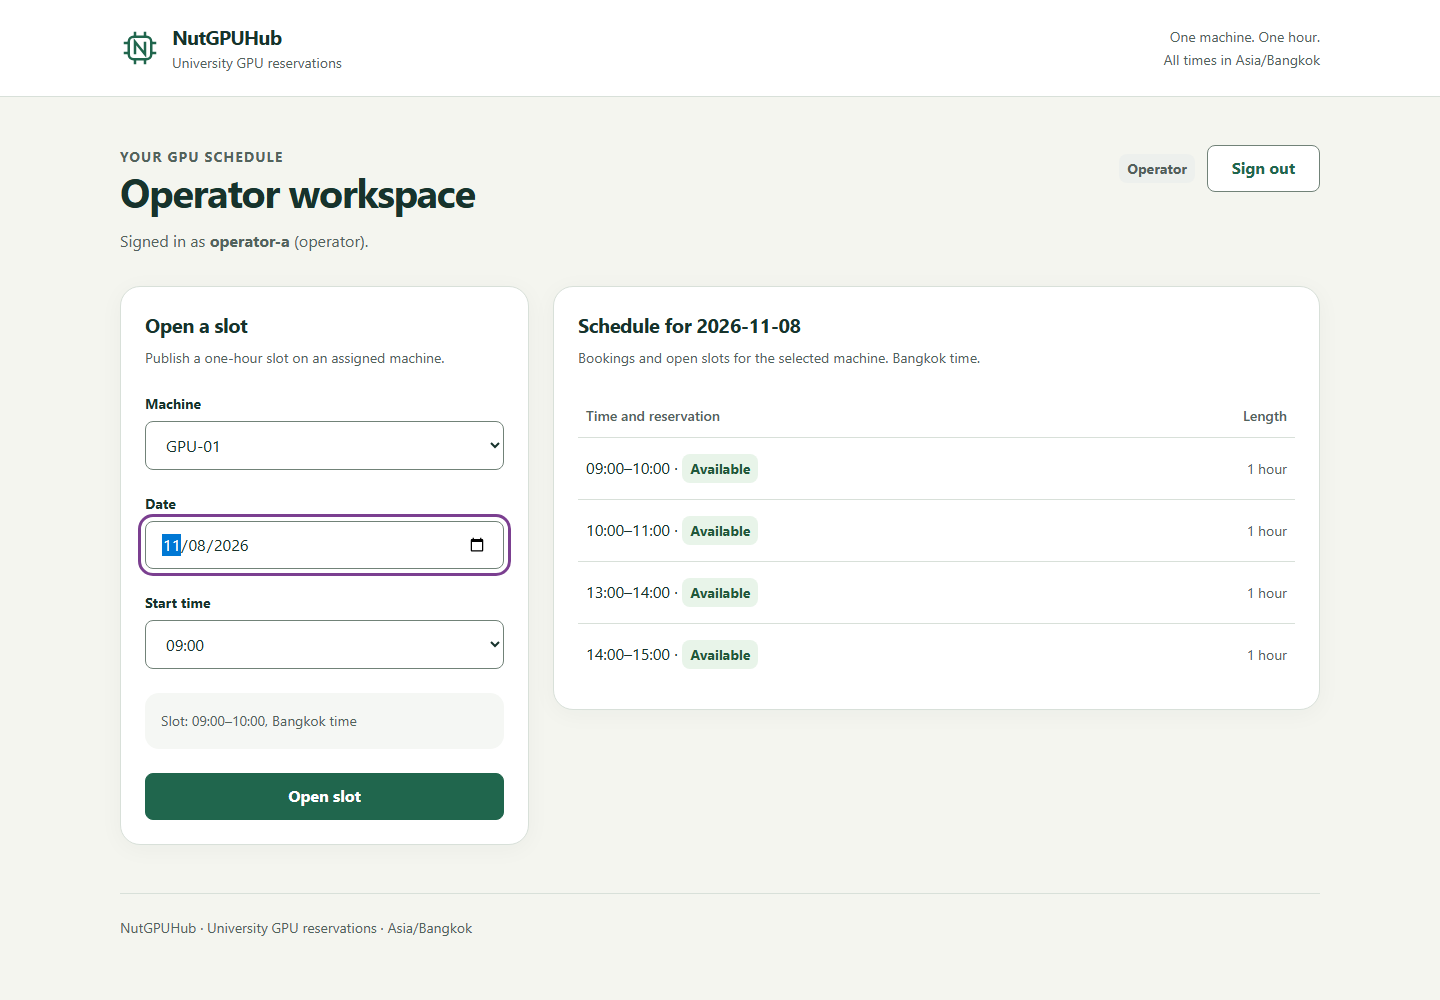
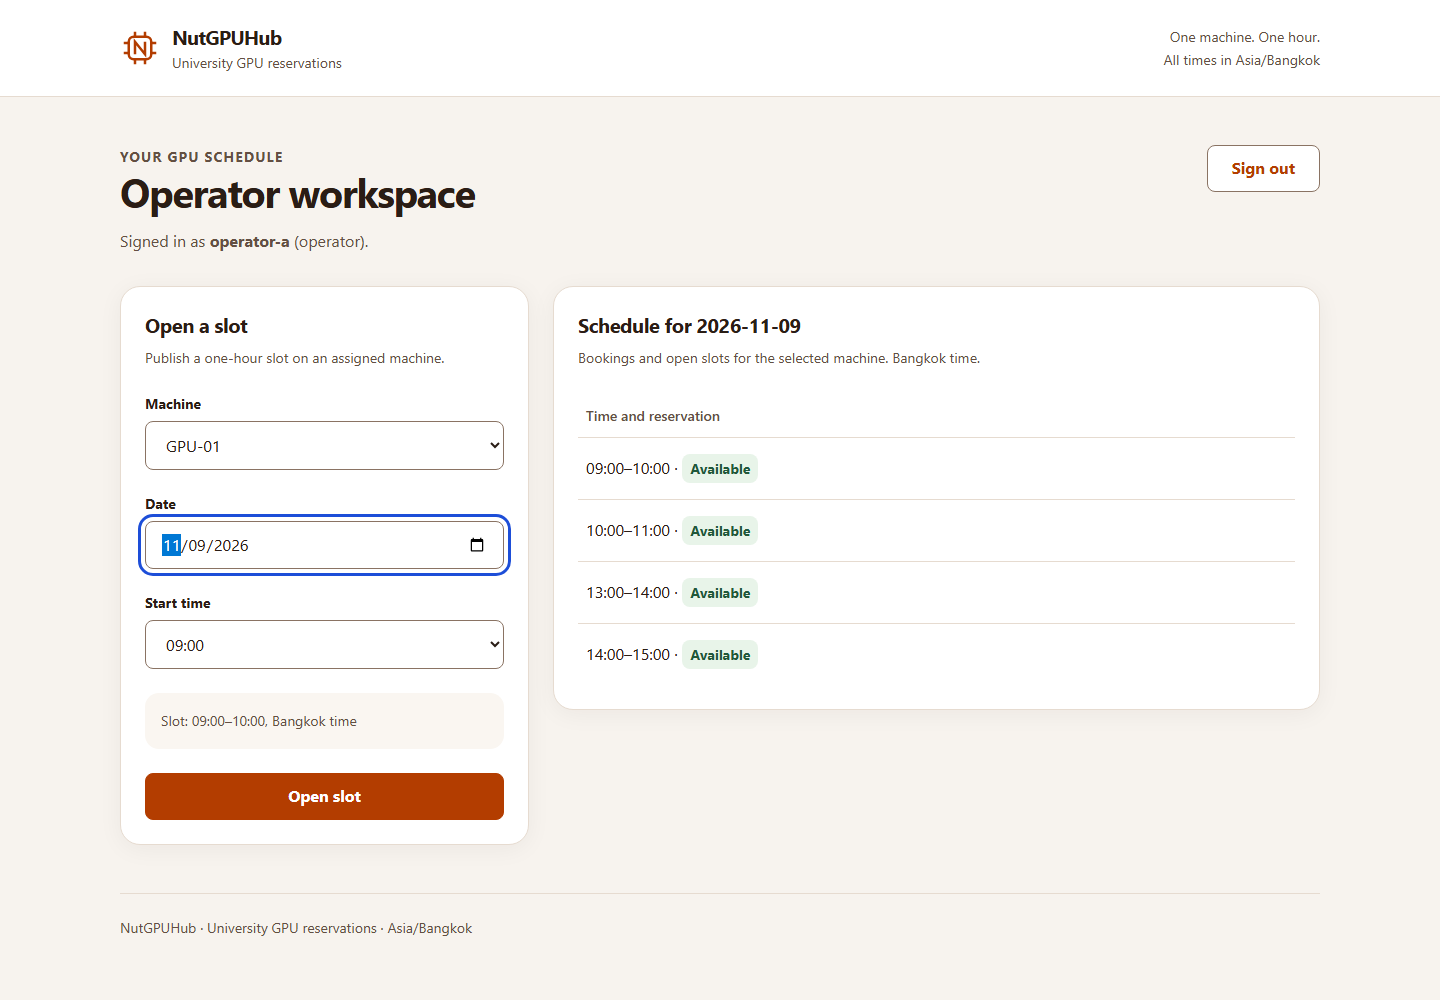
Address UI review feedback and refresh orange theme evidence

diff --git a/client/styles.css b/client/styles.css
@@ -74,7 +74,8 @@ strong { font-weight: 650; }
 .button:hover:not(:disabled) { background: var(--accent-hover); border-color: var(--accent-hover); }
 .button--secondary { background: var(--surface); color: var(--accent); border-color: var(--control-line); }
 .button--secondary:hover:not(:disabled) { background: var(--surface-soft); color: var(--accent-hover); border-color: var(--accent-hover); }
-.button:disabled { cursor: wait; background: var(--past-bg); color: var(--past-ink); border-color: var(--control-line); }
+.button:disabled { cursor: not-allowed; background: var(--past-bg); color: var(--past-ink); border-color: var(--control-line); }
+.button[aria-busy="true"] { cursor: wait; }
 .control { width: 100%; min-width: 0; min-height: 2.875rem; padding: var(--space-3) var(--space-4); border: 1px solid var(--control-line); border-radius: var(--radius-sm); background: var(--surface); color: var(--ink); line-height: 1.3; }
 .control:disabled { background: var(--past-bg); color: var(--past-ink); }
 .field { display: grid; gap: var(--space-2); min-width: 0; }
@@ -122,7 +123,6 @@ table { width: 100%; border-collapse: collapse; table-layout: fixed; font-varian
 th { color: var(--muted); font-size: var(--text-sm); font-weight: 600; padding: var(--space-3) var(--space-2); border-bottom: 1px solid var(--line); }
 td { padding: var(--space-4) var(--space-2); border-bottom: 1px solid var(--line); overflow-wrap: anywhere; }
 tbody tr:last-child td { border-bottom: 0; }
-th:last-child, td:last-child { width: 4.5rem; text-align: right; color: var(--muted); font-size: var(--text-sm); }
 .schedule-summary { line-height: 1.8; }
 .schedule-summary small { display: block; color: var(--muted); margin-top: var(--space-1); }
 .connection-card { max-width: 32rem; margin-inline: auto; display: grid; gap: var(--space-4); }
@@ -147,5 +147,4 @@ th:last-child, td:last-child { width: 4.5rem; text-align: right; color: var(--mu
   .slot-row { flex-wrap: wrap; gap: var(--space-3); }
   .slot-row .button { width: 100%; }
   .date-filter { max-width: none; }
-  th:last-child, td:last-child { display: none; }
 }

diff --git a/client/operator.tsx b/client/operator.tsx
@@ -83,7 +83,7 @@ export function OperatorWorkspace() {
             </Select></div>
           <p className="preview" aria-live="polite">Slot: {hour}:00–{endHour}:00, Bangkok time</p>
           {notice && <Alert tone={notice.kind}>{notice.text}</Alert>}
-          <Button type="submit" disabled={pending || !date}>{pending ? 'Opening…' : 'Open slot'}</Button>
+          <Button type="submit" disabled={pending || !date} aria-busy={pending}>{pending ? 'Opening…' : 'Open slot'}</Button>
         </form>
       </Card>
       <Card aria-labelledby="schedule-heading">
@@ -93,7 +93,7 @@ export function OperatorWorkspace() {
         {slots.state === 'ready' && slots.data.length === 0 && <Alert tone="empty">No slots on this date.</Alert>}
         {slots.state === 'ready' && slots.data.length > 0 && (
           <Table caption={`Slots and reservations for ${date}`}>
-            <thead><tr><th scope="col">Time and reservation</th><th scope="col">Length</th></tr></thead>
+            <thead><tr><th scope="col">Time and reservation</th></tr></thead>
             <tbody>{slots.data.map(slot => (
               <tr key={slot.slotId}><td><div className="schedule-summary">
                 {formatBangkokTime(slot.startAt)}–{formatBangkokTime(slot.endAt)} ·{' '}
@@ -101,7 +101,7 @@ export function OperatorWorkspace() {
                   ? <><StatusBadge tone="booked">Booked by <strong>{slot.booking.studentUsername}</strong></StatusBadge><small>(booking #{slot.booking.bookingId})</small></>
                   : <StatusBadge tone={new Date(slot.startAt).getTime() <= Date.now() ? 'past' : 'available'}>
                     {new Date(slot.startAt).getTime() <= Date.now() ? 'Started / past' : 'Available'}</StatusBadge>}
-              </div></td><td>1 hour</td></tr>
+              </div></td></tr>
             ))}</tbody>
           </Table>
         )}

diff --git a/client/main.tsx b/client/main.tsx
@@ -3,7 +3,7 @@ import { createRoot } from 'react-dom/client';
 import { setSessionExpiredHandler } from './api';
 import { OperatorWorkspace } from './operator';
 import { StudentWorkspace } from './student';
-import { Alert, Brand, Button, Card, Input, StatusBadge } from './components';
+import { Alert, Brand, Button, Card, Input } from './components';
 import './styles.css';
 
 type Account = { id: number; username: string; role: 'student' | 'operator' };
@@ -100,8 +100,7 @@ function App() {
               <p className="muted">Signed in as <strong>{account.username}</strong> ({account.role}).</p>
             </div>
             <div className="page-actions">
-              <StatusBadge tone="past">{account.role === 'student' ? 'Student' : 'Operator'}</StatusBadge>
-              <Button variant="secondary" onClick={signOut} disabled={pending}>{pending ? 'Signing out…' : 'Sign out'}</Button>
+              <Button variant="secondary" onClick={signOut} disabled={pending} aria-busy={pending}>{pending ? 'Signing out…' : 'Sign out'}</Button>
             </div>
           </div>
           {error && <Alert tone="error">{error}</Alert>}
@@ -126,7 +125,7 @@ function App() {
               <div className="field"><label htmlFor="password">Password</label>
                 <Input id="password" name="password" type="password" autoComplete="current-password" required maxLength={256} /></div>
               {error && <Alert tone="error">{error}</Alert>}
-              <Button type="submit" disabled={pending}>{pending ? 'Signing in…' : 'Sign in'}</Button>
+              <Button type="submit" disabled={pending} aria-busy={pending}>{pending ? 'Signing in…' : 'Sign in'}</Button>
             </form>
           </Card>
         </div>}

diff --git a/client/student.tsx b/client/student.tsx
@@ -77,9 +77,8 @@ export function StudentWorkspace() {
         {slots.state === 'ready' && slots.data.length === 0 && <Alert tone="empty">No available slots on this date.</Alert>}
         {slots.state === 'ready' && <ul className="schedule" aria-label="Available slots">
           {slots.data.map(slot => <li className="slot-row" key={slot.slotId}>
-            <div className="slot-info"><span><strong>{slot.machineCode}</strong> · {formatBangkokTime(slot.startAt)}–{formatBangkokTime(slot.endAt)}</span>
-              <span><StatusBadge tone="available">Available</StatusBadge></span></div>
-            <Button disabled={pending} onClick={() => void book(slot)} aria-label={`Book ${slot.machineCode} at ${formatBangkokTime(slot.startAt)}`}>Book</Button>
+            <div className="slot-info"><span><strong>{slot.machineCode}</strong> · {formatBangkokTime(slot.startAt)}–{formatBangkokTime(slot.endAt)}</span></div>
+            <Button disabled={pending} aria-busy={pending} onClick={() => void book(slot)} aria-label={`Book ${slot.machineCode} at ${formatBangkokTime(slot.startAt)}`}>Book</Button>
           </li>)}
         </ul>}
       </div>

diff --git a/docs/sprints/sprint-1/ui-verification.md b/docs/sprints/sprint-1/ui-verification.md
@@ -1,6 +1,6 @@
 # UI-01 Visual Consistency and Verification
 
-UI-01 (#6) applies one presentation system to the accepted F-01 to F-04 screens. The baseline screenshots were captured from staging `81a730038a6d9ed41584a54d48c8e1033af6d0f0`. The linked PR identifies the committed UI implementation corresponding to the checks below. Execution-version and release-evidence guidance remains in the [central verification record](verification.md).
+UI-01 (#6) applies one presentation system to the accepted F-01 to F-04 screens. The baseline screenshots were captured from staging `81a730038a6d9ed41584a54d48c8e1033af6d0f0`. The current checks and after screenshots were rerun on November 8, 2026, on the review-fix working tree based on Thawat's orange-palette commit `8b02008cb945903552f4fe003ca099b61dd02d88`. PR #23 identifies the resulting committed implementation; checks ran before that commit on the identical client source tree. Execution-version and release-evidence guidance remains in the [central verification record](verification.md).
 
 ## Presentation design
 
@@ -15,7 +15,7 @@ The student workspace separates availability, saved booking detail and My Bookin
 | Criterion | Check and actual result |
 |---|---|
 | UI-AC-01: shared tokens/components | No hexadecimal color literals or inline style attributes in TSX page files. Shared controls and state components are used across sign-in, student and operator screens. Source/API/test/dependency scope was inspected. |
-| UI-AC-02: contrast | Browser-loaded CSS tokens were checked for 12 foreground/background text pairs. Minimum ratio 5.7455:1. axe-core 4.14.0 ran 19 checks across screens, widths and feedback states with zero WCAG-tagged violations and no incomplete checks. These results were recorded on the earlier green palette. After the dark orange change, a calculated check of the new token pairs gives a minimum text contrast of 5.30:1 (accent on canvas); axe has not been rerun on the new palette. |
+| UI-AC-02: contrast | Browser-loaded orange-palette CSS tokens were checked for 13 foreground/background text pairs. Minimum ratio 5.3037:1 (accent on canvas); white on the accent is 5.8590:1. axe-core 4.14.0 was rerun on the orange UI: 19 scans across screens, widths and feedback states, with zero WCAG-tagged violations and no incomplete checks. |
 | UI-AC-03: keyboard focus | Tab traversal checked 4 distinct controls on sign-in, 11 on the student screen and 6 on the operator screen. Each inspected control had a visible 3px focus outline. A native date-field focus gap found during QA was fixed with `:focus-within`. A skip link reaches the main content. |
 | UI-AC-04: feedback | Loading, empty availability, empty My Bookings, invalid credentials, data-load error/retry, booking conflict, operator rejection and past booking states were exercised. Feedback uses the shared Alert/StatusBadge components; errors retain `role="alert"` and success retains `role="status"`. |
 
@@ -23,7 +23,7 @@ Automated axe checks and keyboard traversal cover the checks above; they are not
 
 ## Responsive and regression checks
 
-- 15 before screenshots and 25 after/state screenshots were retained locally. The normal screen captures use 375, 768 and 1440px widths.
+- The 15 historical before screenshots were retained. A fresh set of 25 orange after/state screenshots was captured; eight selected after images in this document were replaced. The normal screen captures use 375, 768 and 1440px widths.
 - 245 viewport checks passed without horizontal page overflow: the three primary surfaces were checked from 320 to 1440px in 16px steps plus breakpoint-adjacent widths; student and operator screens were also checked with an 80-character username.
 - Zero browser page errors were observed in the captured journeys. Intentional rejected requests and simulated failures were used to verify error states.
 - `npm test`: 35 passed, 0 failed, 0 skipped across 6 files. Existing test files and assertions were unchanged.
@@ -32,11 +32,19 @@ Automated axe checks and keyboard traversal cover the checks above; they are not
 - `npm run verify:restart`: passed with the same saved booking/session readable after stopping and starting different Node processes.
 - A separate read-only code review found no actionable API, workflow or accessibility regression. The parent then verified the rendered screens and the native date-field correction.
 
-All runs used isolated synthetic PostgreSQL data. Raw output, contrast ratios, axe results, viewport/focus observations and the local QA script are under the ignored `evidence/ui-01/` directory. The screenshot comparison is a visual review of an intentional restyle, not a zero-pixel-difference claim.
+All runs used isolated synthetic PostgreSQL data. Current orange-palette output, contrast ratios, axe results, viewport/focus observations and the local QA script are under the ignored `evidence/ui-orange-review/` directory; the original green run remains under `evidence/ui-01/`. The screenshot comparison is a visual review of an intentional restyle, not a zero-pixel-difference claim.
+
+## PR #23 review follow-up
+
+- Removed the redundant Student/Operator badge. The role remains visible in the workspace heading and signed-in account text.
+- Removed repeated Available badges from the student availability list. The list heading supplies that context; the operator schedule keeps its Available/Booked/Started labels because it contains mixed states.
+- Removed the always-one-hour Length column and the obsolete last-column desktop/mobile CSS rules. Browser checks confirmed that the remaining time-and-reservation column and cells stay visible at 375px.
+- Disabled buttons use `cursor: not-allowed`. Pending sign-in, sign-out, booking and slot-opening requests expose `aria-busy`; only those busy buttons use `cursor: wait`. A browser check cleared the operator date and verified disabled/not-allowed/not-busy, then held a real slot-opening request and verified disabled/wait/busy.
+- The separate Vite development proxy issue is owned by Thawat's follow-up PR. This revision does not claim that the development-server blank-page issue is fixed.
 
 ## Before and after screenshots
 
-The screenshots below use synthetic accounts and show the earlier green palette; layout and states are unchanged by the later color change. Record IDs can differ because each capture run creates fresh fixtures. The saved-booking screen includes My Bookings; the operator screen includes both machine selection and the daily schedule.
+The screenshots below use synthetic accounts. Before images show the original staging UI; after images show the orange palette with the review fixes above. Record IDs can differ because each capture run creates fresh fixtures. The saved-booking screen includes My Bookings; the operator screen includes both machine selection and the daily schedule.
 
 | Screen/state | Before (1440px) | After (1440px) |
 |---|---|---|
@@ -54,3 +62,4 @@ Mobile examples: [sign-in](images/ui-01/after-sign-in-mobile.png), [student avai
 |---|---|---|---|
 | 0.1 | 2026-11-07 | Tanadet Nuchaikaew | Recorded UI-01 presentation, accessibility/responsive checks, regression results and before/after evidence for peer review. |
 | 0.2 | 2026-11-08 | Thawat Boonsuk | PR #23 review: changed the primary color to dark orange with warm neutrals and a blue focus outline; recorded the calculated contrast and the checks still to rerun. |
+| 0.3 | 2026-11-08 | Tanadet Nuchaikaew | Addressed the UI review comments; reran orange-palette axe, contrast, responsive, focus, API/E2E/build/restart checks and replaced the after screenshots. |

diff --git a/docs/system-sds.md b/docs/system-sds.md
@@ -55,7 +55,7 @@ Sign-in verifies an argon2id password hash and creates an opaque server-side ses
 
 ### UI-01 presentation implementation
 
-The presentation layer uses shared Button, Input, Select, Card, Table, StatusBadge and Alert components in `client/components.tsx`. `client/styles.css` defines the shared color, typography, spacing and radius tokens. Sign-in and role workspaces share the brand header, surfaces, controls, focus treatment and feedback styling. The operator schedule is a captioned table; student availability and My Bookings remain lists. Narrow layouts stack their cards; the fixed one-hour length column is hidden on narrow screens because the time range already conveys it.
+The presentation layer uses shared Button, Input, Select, Card, Table, StatusBadge and Alert components in `client/components.tsx`. `client/styles.css` defines the shared color, typography, spacing and radius tokens. Sign-in and role workspaces share the brand header, surfaces, controls, focus treatment and feedback styling. The operator schedule is a captioned table; student availability and My Bookings remain lists. Narrow layouts stack their cards. The schedule uses one time-and-reservation column at every width; each time range already conveys the fixed one-hour length. Role context stays in the heading and account text rather than a reservation-status badge. Disabled buttons use a not-allowed cursor; buttons with pending requests expose `aria-busy` and use a wait cursor.
 
 Available, booked/confirmed, started/past and error states use text and a consistent token palette. Time labels are presentation derived at render time; API permissions and server-clock validation remain authoritative. The [UI verification record](sprints/sprint-1/ui-verification.md) contains the before/after comparisons and acceptance checks.
 
@@ -102,3 +102,4 @@ Planned F-05/F-06 operations will use transactions to change confirmed state and
 | 0.3 | 2026-11-07 | Tanadet Nuchaikaew | Documented current composite FK and request flow, fixed TTL validation, seed configuration, verification commands and planned state/cardinality changes. |
 | 0.4 | 2026-11-07 | Tanadet Nuchaikaew | PR #21 review: documented the existing PUBLIC_ORIGIN fallback and origin precedence. |
 | 0.5 | 2026-11-07 | Tanadet Nuchaikaew | UI-01: recorded the shared presentation components, responsive layout and verification reference. |
+| 0.6 | 2026-11-08 | Tanadet Nuchaikaew | PR #23 review: simplified role/availability labels and schedule columns; distinguished disabled controls from pending requests. |

diff --git a/docs/sprints/sprint-1/verification.md b/docs/sprints/sprint-1/verification.md
@@ -74,6 +74,8 @@ The empty-day test runs in its own schema because the shared test database may h
 
 The [UI-01 record](ui-verification.md) documents the restyle built from staging `81a7300`, with before/after screenshots and rendered-state checks. The same 35 unit/API tests, both browser journeys, build and real-process restart check passed with the shared presentation components. The UI-01 PR identifies the corresponding committed implementation for peer review.
 
+On November 8, these commands were rerun on the PR #23 review-fix working tree based on orange-palette commit `8b02008`; all passed again. The orange UI also passed 19 axe scans (zero violations or incomplete checks), 245 reflow checks, keyboard focus traversal and 13 text-contrast pairs (minimum 5.3037:1). The refreshed after screenshots and local evidence path are recorded in the UI-01 document. This is branch-level review evidence; #16 still owns verification of the accepted final candidate.
+
 ## Required release follow-up
 
 - Complete the explicit coverage gaps above in #16 and report actual failures/skips rather than marking the full STS passed from its test ID alone.
@@ -91,3 +93,4 @@ The [UI-01 record](ui-verification.md) documents the restyle built from staging 
 | 0.3 | 2026-11-07 | Thawat Boonsuk | QA-01: recorded the added started-slot, empty-day, booking-boundary, no-write and ordering tests with their branch results and mutation checks. |
 | 0.4 | 2026-11-07 | Thawat Boonsuk | PR #22 review: moved the empty-day check to an isolated schema and recorded the exact tested commit. |
 | 0.5 | 2026-11-07 | Tanadet Nuchaikaew | Linked UI-01 visual checks and the unchanged regression suite results after the restyle. |
+| 0.6 | 2026-11-08 | Tanadet Nuchaikaew | Recorded the orange-palette UI review rerun and refreshed evidence while preserving the final-candidate release gate. |
